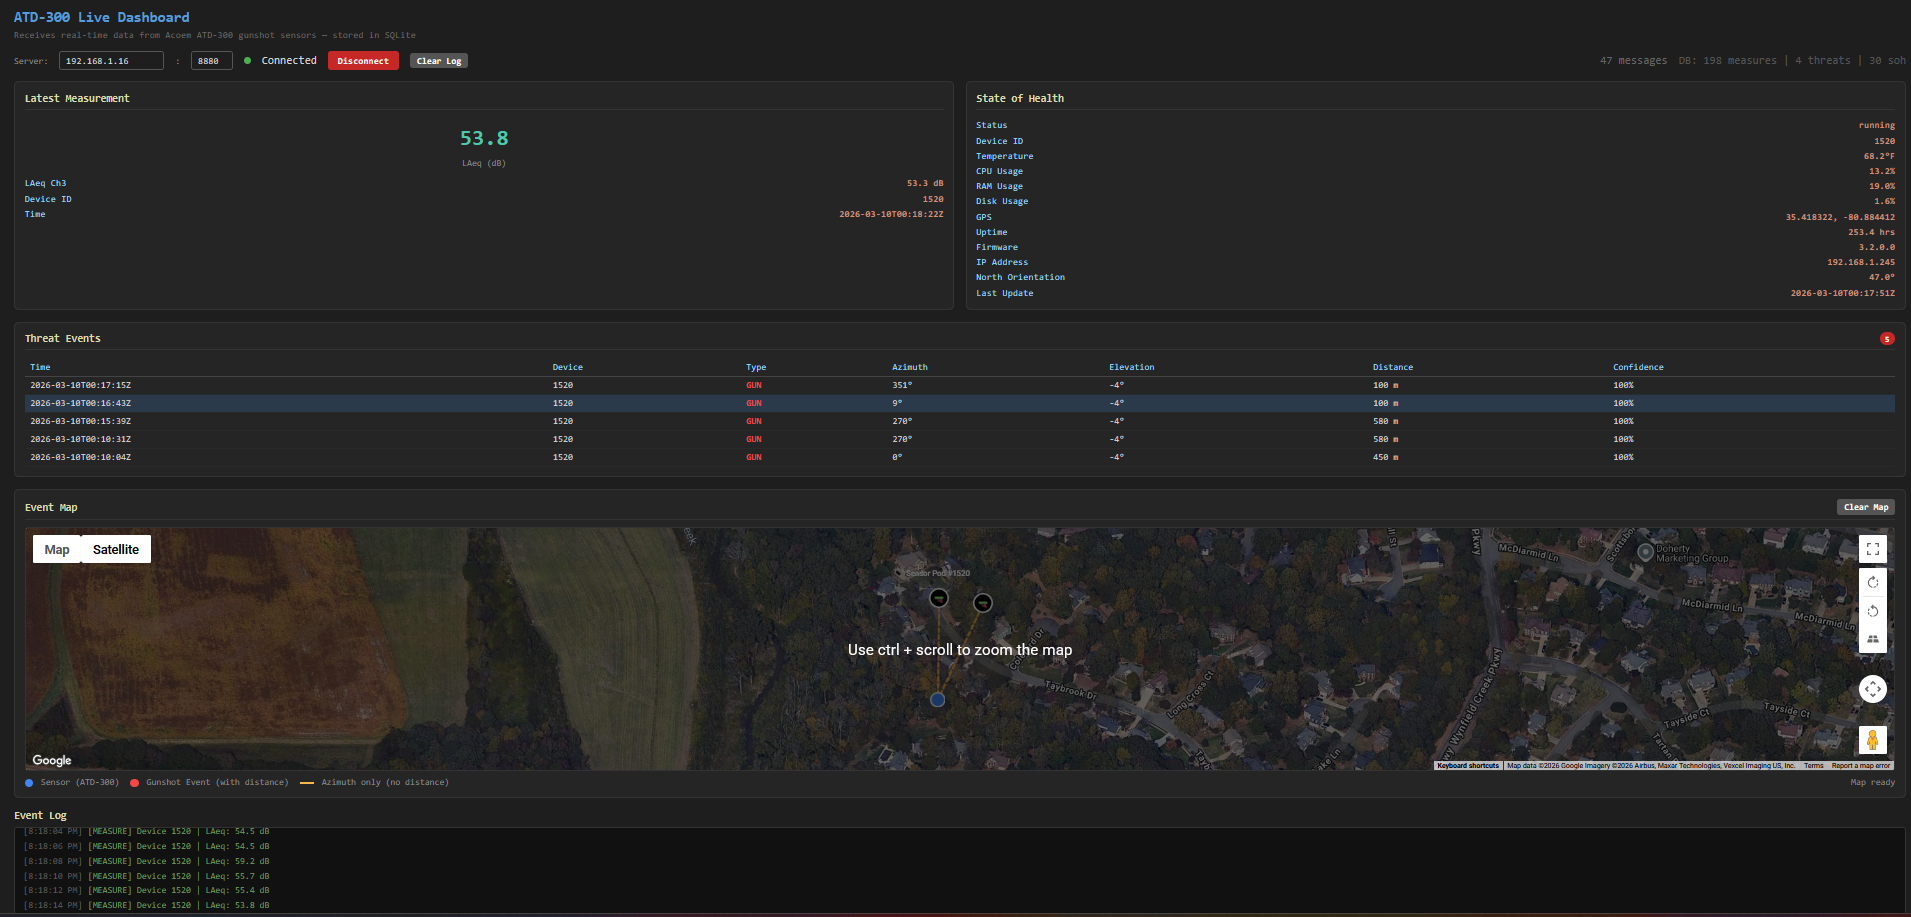
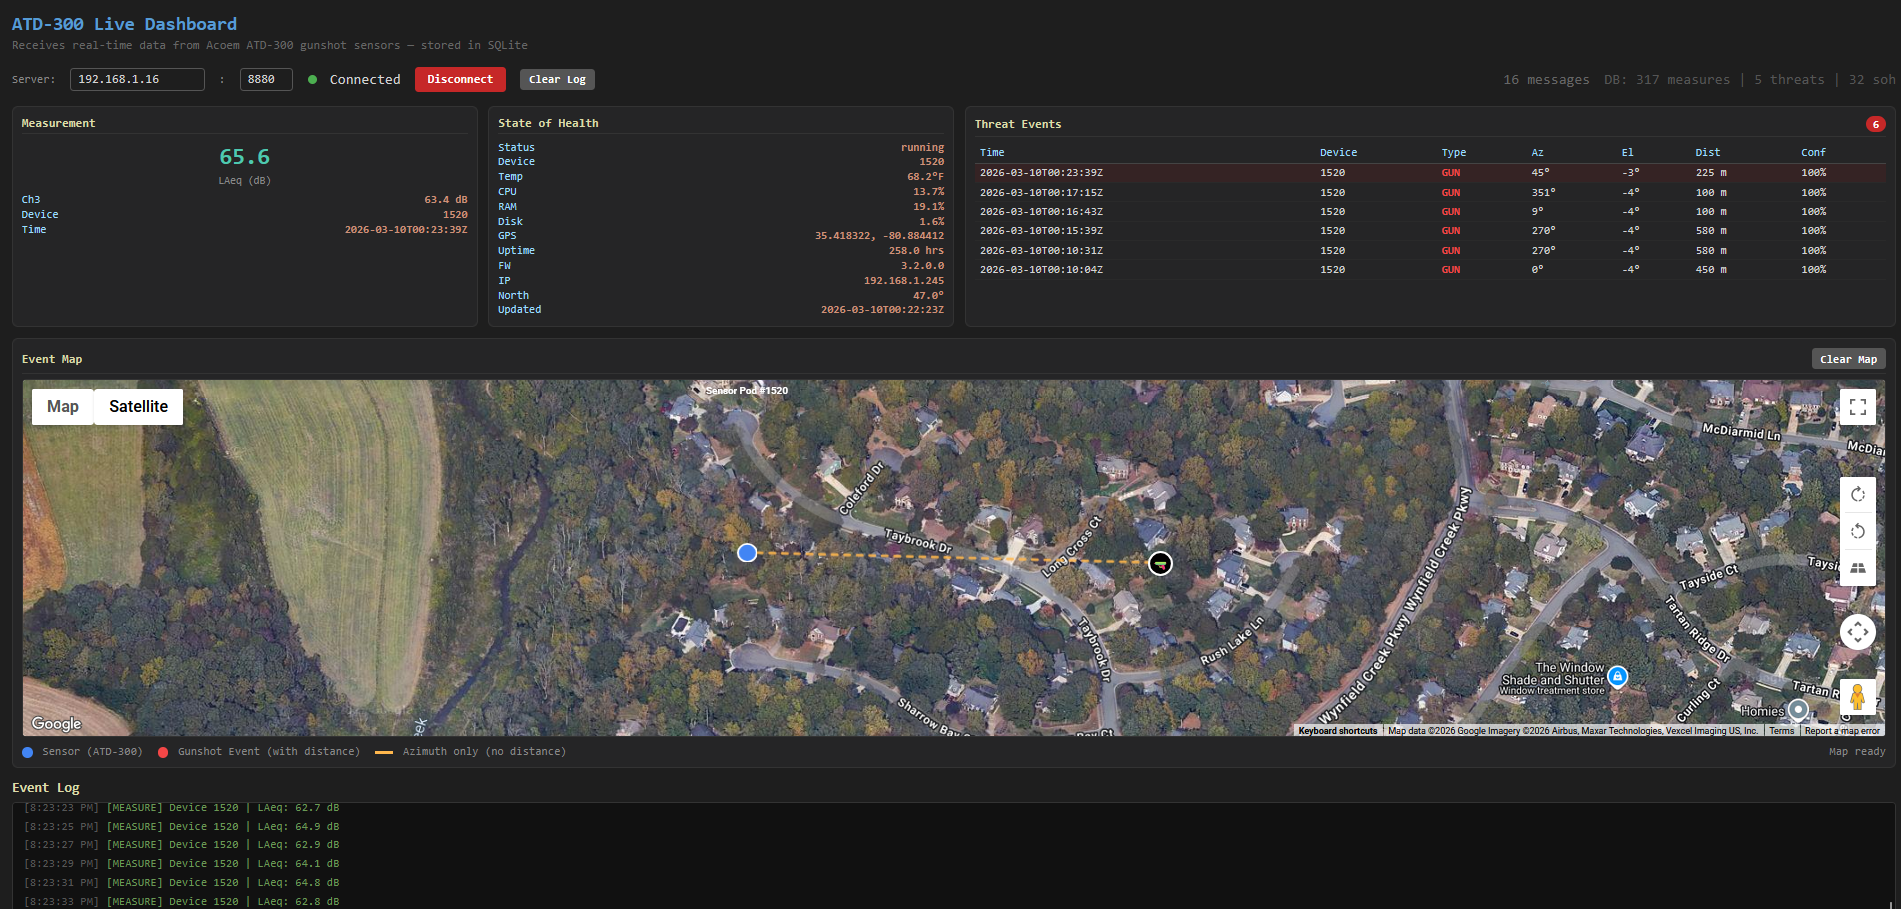
Fix dashboard layout.

diff --git a/index.html b/index.html
@@ -25,21 +25,21 @@
         #portInput { width: 60px; }
         .cfg-label { color: #888; font-size: 0.8rem; }
 
-        .top-panels { display: grid; grid-template-columns: 1fr 1fr; gap: 16px; margin-bottom: 16px; }
-        .panel { background: #252526; border: 1px solid #333; border-radius: 6px; padding: 14px; }
-        .panel h2 { font-size: 0.95rem; color: #dcdcaa; margin-bottom: 10px; border-bottom: 1px solid #333; padding-bottom: 6px; display: flex; justify-content: space-between; align-items: center; }
+        .top-panels { display: grid; grid-template-columns: 1fr 1fr 2fr; gap: 12px; margin-bottom: 12px; }
+        .panel { background: #252526; border: 1px solid #333; border-radius: 6px; padding: 10px; }
+        .panel h2 { font-size: 0.85rem; color: #dcdcaa; margin-bottom: 6px; border-bottom: 1px solid #333; padding-bottom: 4px; display: flex; justify-content: space-between; align-items: center; }
         .panel h2 .badge { background: #c62828; color: #fff; padding: 2px 8px; border-radius: 10px; font-size: 0.75rem; }
-        .kv { display: flex; justify-content: space-between; padding: 3px 0; font-size: 0.85rem; }
+        .kv { display: flex; justify-content: space-between; padding: 1px 0; font-size: 0.78rem; }
         .kv .label { color: #9cdcfe; }
         .kv .value { color: #ce9178; font-weight: bold; }
-        .big-value { font-size: 2rem; color: #4ec9b0; font-weight: bold; text-align: center; padding: 10px 0; }
-        .big-label { text-align: center; color: #888; font-size: 0.8rem; }
+        .big-value { font-size: 1.6rem; color: #4ec9b0; font-weight: bold; text-align: center; padding: 4px 0; }
+        .big-label { text-align: center; color: #888; font-size: 0.75rem; }
 
         /* Threat events table */
-        .threat-panel { margin-bottom: 16px; }
-        .threat-table { width: 100%; border-collapse: collapse; font-size: 0.82rem; }
-        .threat-table th { text-align: left; color: #9cdcfe; padding: 6px 8px; border-bottom: 2px solid #444; font-weight: normal; }
-        .threat-table td { padding: 5px 8px; border-bottom: 1px solid #2a2a2a; }
+        .threat-panel { margin-bottom: 0; }
+        .threat-table { width: 100%; border-collapse: collapse; font-size: 0.78rem; }
+        .threat-table th { text-align: left; color: #9cdcfe; padding: 4px 6px; border-bottom: 2px solid #444; font-weight: normal; }
+        .threat-table td { padding: 3px 6px; border-bottom: 1px solid #2a2a2a; }
         .threat-table tbody tr { transition: background 0.2s; cursor: pointer; }
         .threat-table tbody tr:hover { background: #2a2d2e; }
         .threat-table tbody tr.selected-row { background: #2a3a4a; }
@@ -50,12 +50,12 @@
         .threat-type.firecracker { color: #ffb74d; }
         .threat-type.sniper { color: #ff5252; }
         .threat-type.other { color: #ce9178; }
-        .threat-scroll { max-height: 220px; overflow-y: auto; }
+        .threat-scroll { max-height: 180px; overflow-y: auto; }
         .no-threats { color: #555; text-align: center; padding: 20px; font-style: italic; }
 
         /* Map panel */
-        .map-panel { margin-bottom: 16px; }
-        #map { width: 100%; height: 350px; border-radius: 4px; background: #111; border: 1px solid #333; }
+        .map-panel { margin-bottom: 12px; }
+        #map { width: 100%; height: 400px; border-radius: 4px; background: #111; border: 1px solid #333; }
         .map-legend { display: flex; gap: 16px; margin-top: 8px; font-size: 0.8rem; color: #888; align-items: center; }
         .legend-dot { width: 12px; height: 12px; border-radius: 50%; display: inline-block; margin-right: 4px; vertical-align: middle; }
         .legend-blue { background: #4285F4; }
@@ -71,7 +71,7 @@
         .log-info { color: #888; }
         .log-time { color: #555; margin-right: 8px; }
 
-        @media (max-width: 700px) { .top-panels { grid-template-columns: 1fr; } }
+        @media (max-width: 900px) { .top-panels { grid-template-columns: 1fr; } }
     </style>
 </head>
 <body>
@@ -92,12 +92,12 @@
 
     <div class="top-panels">
         <div class="panel">
-            <h2>Latest Measurement</h2>
+            <h2>Measurement</h2>
             <div class="big-value" id="laeqValue">--</div>
             <div class="big-label">LAeq (dB)</div>
-            <div style="margin-top: 10px;">
-                <div class="kv"><span class="label">LAeq Ch3</span><span class="value" id="laeqCh3">--</span></div>
-                <div class="kv"><span class="label">Device ID</span><span class="value" id="measureDevice">--</span></div>
+            <div style="margin-top: 6px;">
+                <div class="kv"><span class="label">Ch3</span><span class="value" id="laeqCh3">--</span></div>
+                <div class="kv"><span class="label">Device</span><span class="value" id="measureDevice">--</span></div>
                 <div class="kv"><span class="label">Time</span><span class="value" id="measureTime">--</span></div>
             </div>
         </div>
@@ -105,40 +105,40 @@
         <div class="panel">
             <h2>State of Health</h2>
             <div class="kv"><span class="label">Status</span><span class="value" id="sohStatus">--</span></div>
-            <div class="kv"><span class="label">Device ID</span><span class="value" id="sohDevice">--</span></div>
-            <div class="kv"><span class="label">Temperature</span><span class="value" id="sohTemp">--</span></div>
-            <div class="kv"><span class="label">CPU Usage</span><span class="value" id="sohCpu">--</span></div>
-            <div class="kv"><span class="label">RAM Usage</span><span class="value" id="sohRam">--</span></div>
-            <div class="kv"><span class="label">Disk Usage</span><span class="value" id="sohDisk">--</span></div>
+            <div class="kv"><span class="label">Device</span><span class="value" id="sohDevice">--</span></div>
+            <div class="kv"><span class="label">Temp</span><span class="value" id="sohTemp">--</span></div>
+            <div class="kv"><span class="label">CPU</span><span class="value" id="sohCpu">--</span></div>
+            <div class="kv"><span class="label">RAM</span><span class="value" id="sohRam">--</span></div>
+            <div class="kv"><span class="label">Disk</span><span class="value" id="sohDisk">--</span></div>
             <div class="kv"><span class="label">GPS</span><span class="value" id="sohGps">--</span></div>
             <div class="kv"><span class="label">Uptime</span><span class="value" id="sohUptime">--</span></div>
-            <div class="kv"><span class="label">Firmware</span><span class="value" id="sohFw">--</span></div>
-            <div class="kv"><span class="label">IP Address</span><span class="value" id="sohIp">--</span></div>
-            <div class="kv"><span class="label">North Orientation</span><span class="value" id="sohOrientation">--</span></div>
-            <div class="kv"><span class="label">Last Update</span><span class="value" id="sohTime">--</span></div>
+            <div class="kv"><span class="label">FW</span><span class="value" id="sohFw">--</span></div>
+            <div class="kv"><span class="label">IP</span><span class="value" id="sohIp">--</span></div>
+            <div class="kv"><span class="label">North</span><span class="value" id="sohOrientation">--</span></div>
+            <div class="kv"><span class="label">Updated</span><span class="value" id="sohTime">--</span></div>
         </div>
-    </div>
 
-    <!-- Threat Events Panel -->
-    <div class="panel threat-panel">
-        <h2>Threat Events <span class="badge" id="threatCount">0</span></h2>
-        <div class="threat-scroll">
-            <table class="threat-table">
-                <thead>
-                    <tr>
-                        <th>Time</th>
-                        <th>Device</th>
-                        <th>Type</th>
-                        <th>Azimuth</th>
-                        <th>Elevation</th>
-                        <th>Distance</th>
-                        <th>Confidence</th>
-                    </tr>
-                </thead>
-                <tbody id="threatBody">
-                    <tr><td colspan="7" class="no-threats">No threat events yet</td></tr>
-                </tbody>
-            </table>
+        <!-- Threat Events Panel -->
+        <div class="panel threat-panel">
+            <h2>Threat Events <span class="badge" id="threatCount">0</span></h2>
+            <div class="threat-scroll">
+                <table class="threat-table">
+                    <thead>
+                        <tr>
+                            <th>Time</th>
+                            <th>Device</th>
+                            <th>Type</th>
+                            <th>Az</th>
+                            <th>El</th>
+                            <th>Dist</th>
+                            <th>Conf</th>
+                        </tr>
+                    </thead>
+                    <tbody id="threatBody">
+                        <tr><td colspan="7" class="no-threats">No threat events yet</td></tr>
+                    </tbody>
+                </table>
+            </div>
         </div>
     </div>
 
